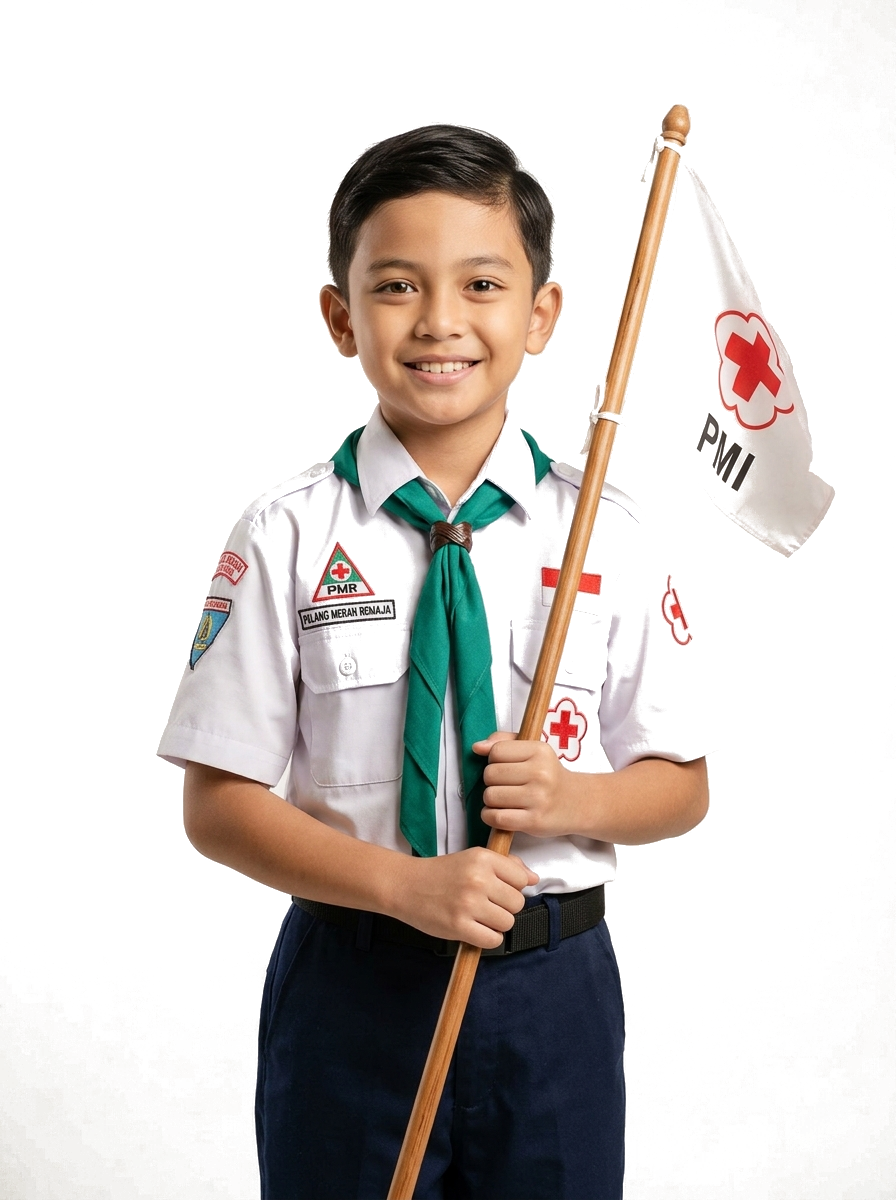
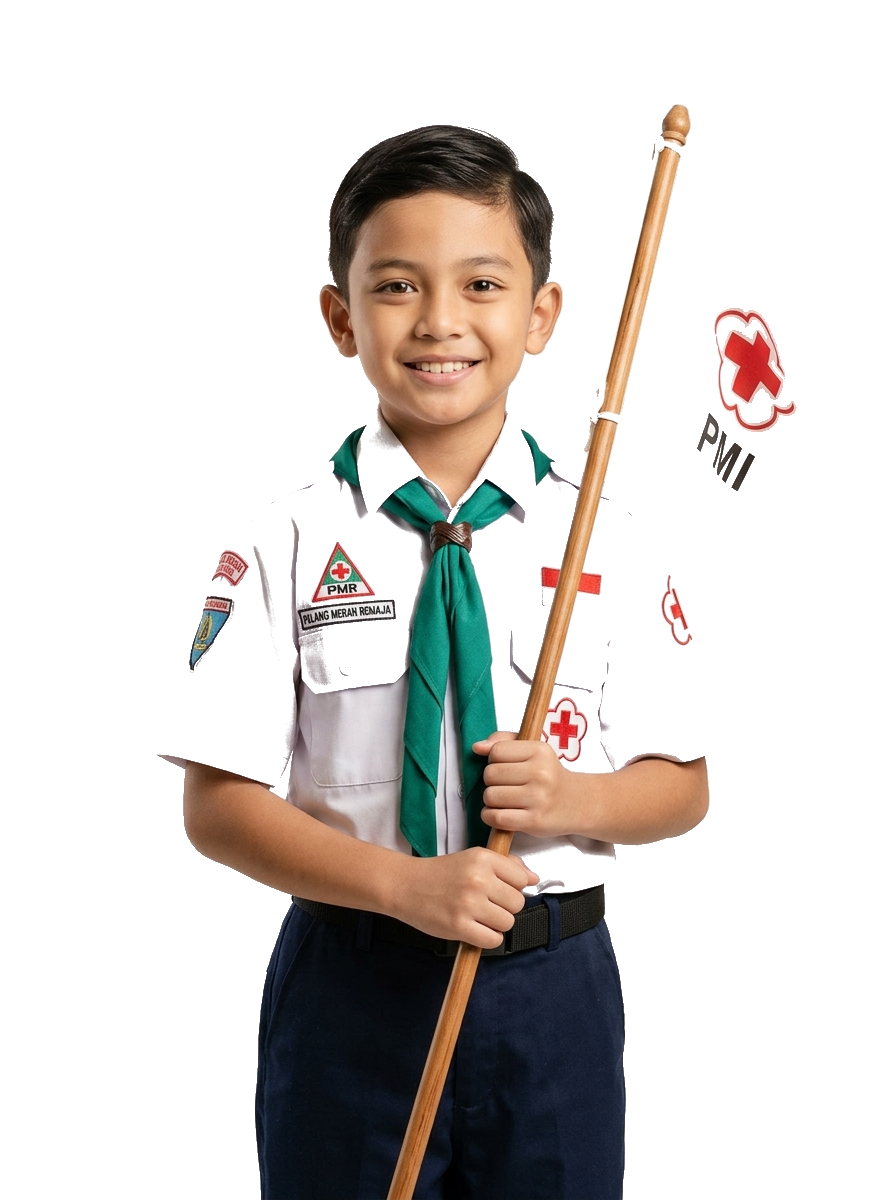
Update mascot PNG images with 100% clean transparency and cache buster

diff --git a/resources/views/admin/competition/scores/index.blade.php b/resources/views/admin/competition/scores/index.blade.php
@@ -84,11 +84,11 @@
                         <!-- Right: Transparent Mascot Photo aligned with Badge -->
                         @if($cat->code === 'LPP-MULA-PA')
                             <div class="shrink-0 w-20 h-24 sm:w-24 sm:h-28 -my-2 flex items-center justify-center">
-                                <img src="{{ asset('images/mascot/pmr_mula_putra.png') }}" alt="PMR Mula Putra" class="max-h-full max-w-full object-contain filter drop-shadow-md hover:scale-110 transition duration-300">
+                                <img src="{{ asset('images/mascot/pmr_mula_putra.png') }}?v=3" alt="PMR Mula Putra" class="max-h-full max-w-full object-contain filter drop-shadow-md hover:scale-110 transition duration-300">
                             </div>
                         @elseif($cat->code === 'LPP-MULA-PI')
                             <div class="shrink-0 w-20 h-24 sm:w-24 sm:h-28 -my-2 flex items-center justify-center">
-                                <img src="{{ asset('images/mascot/pmr_mula_putri.png') }}" alt="PMR Mula Putri" class="max-h-full max-w-full object-contain filter drop-shadow-md hover:scale-110 transition duration-300">
+                                <img src="{{ asset('images/mascot/pmr_mula_putri.png') }}?v=3" alt="PMR Mula Putri" class="max-h-full max-w-full object-contain filter drop-shadow-md hover:scale-110 transition duration-300">
                             </div>
                         @endif
                     </div>
